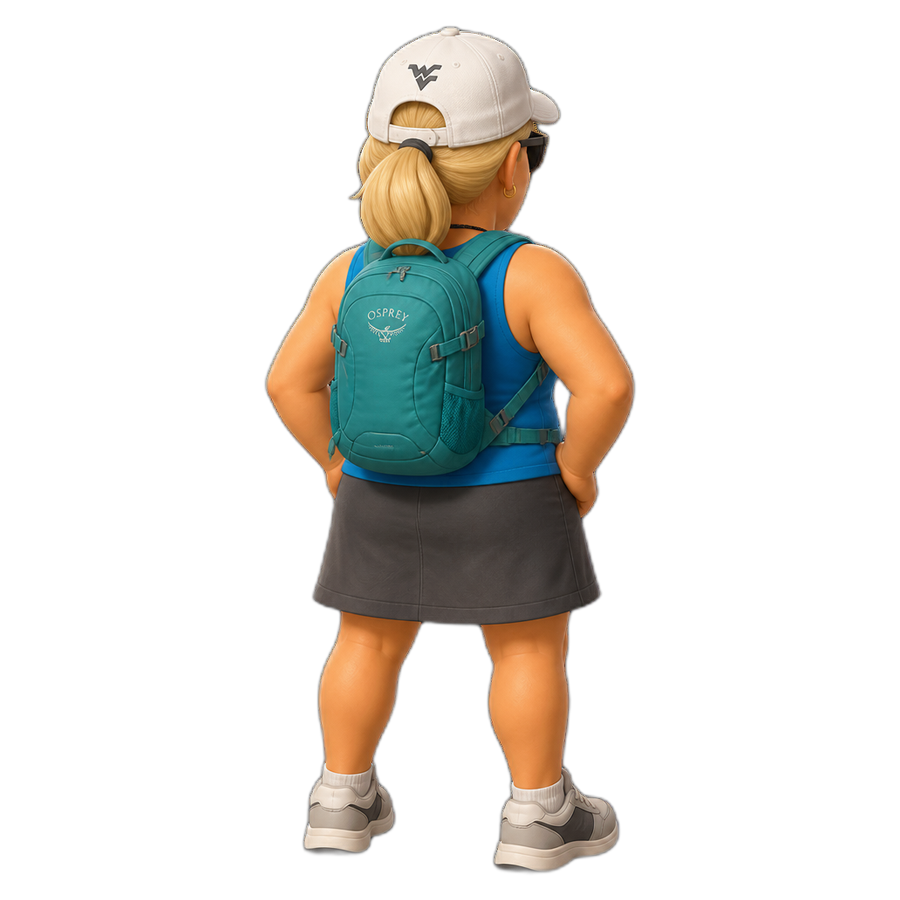
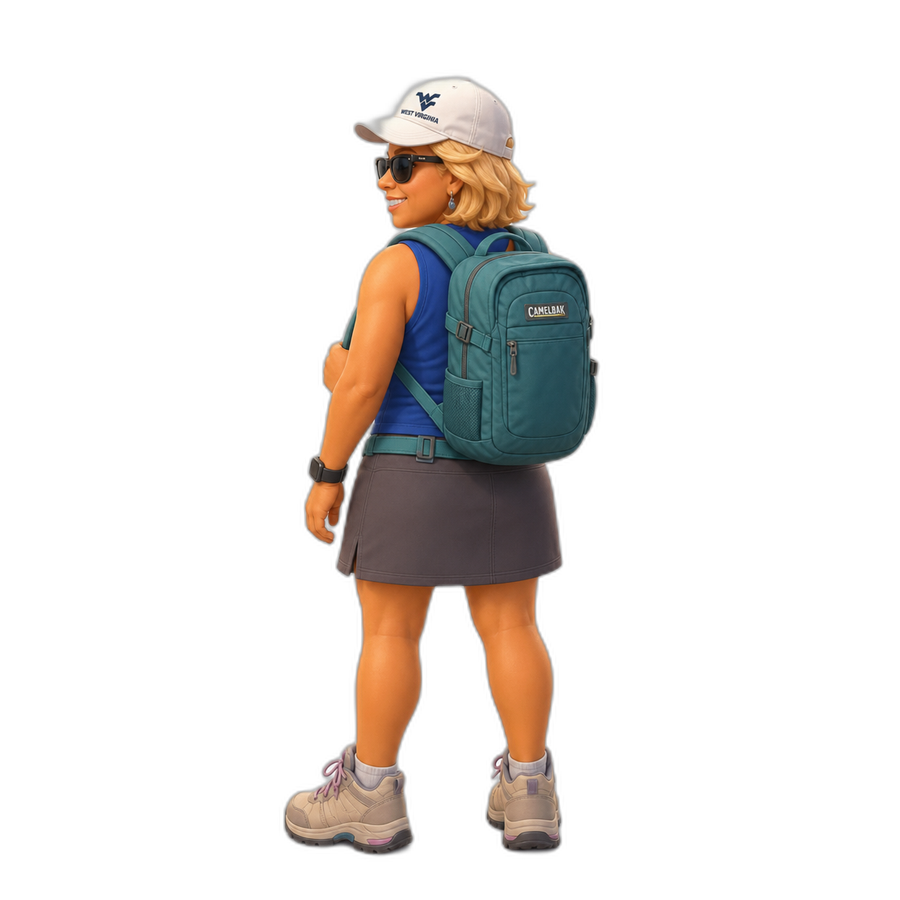
feat(philroyale): update Susan card and battlefield art
New hiking photo on shared blue card background; matching troop
front/back for the battlefield.

Changed region(s): [[0.28, 0.0311, 0.7156, 0.9956]]

diff --git a/philroyale/src/characters/SusanModel.tsx b/philroyale/src/characters/SusanModel.tsx
@@ -14,7 +14,7 @@ type Props = {
   auraActive?: boolean
 }
 
-/** Susan — Mini Aura juice lobber; blue flames after a kill. */
+/** Susan — hiking kit Mini Aura juice lobber; blue flames after a kill. */
 export function SusanModel({ anim, facing, attackId, portrait, auraActive }: Props) {
   return (
     <div className="relative h-full w-full">
@@ -22,19 +22,17 @@ export function SusanModel({ anim, facing, attackId, portrait, auraActive }: Pro
         cardSrc={CARD}
         troopSrc={TROOP}
         troopBackSrc={BACK}
-        portraitSrc={TROOP}
+        
         alt="Susan"
         anim={anim}
         facing={facing}
         portrait={portrait}
-        objectPos="50% 12%"
+        objectPos="50% 14%"
         portraitFilter="brightness(1.02) saturate(1.05)"
         gait="jog"
-        spriteLegs
+        spriteLegs={false}
         attack={anim === 'attack' && attackId === 'miniAura' ? 'berryJuice' : 'none'}
-        legColor="#3a3a42"
-        shoeColor="#f0f0f4"
-      />
+              />
       {auraActive && !portrait ? (
         <>
           <div
